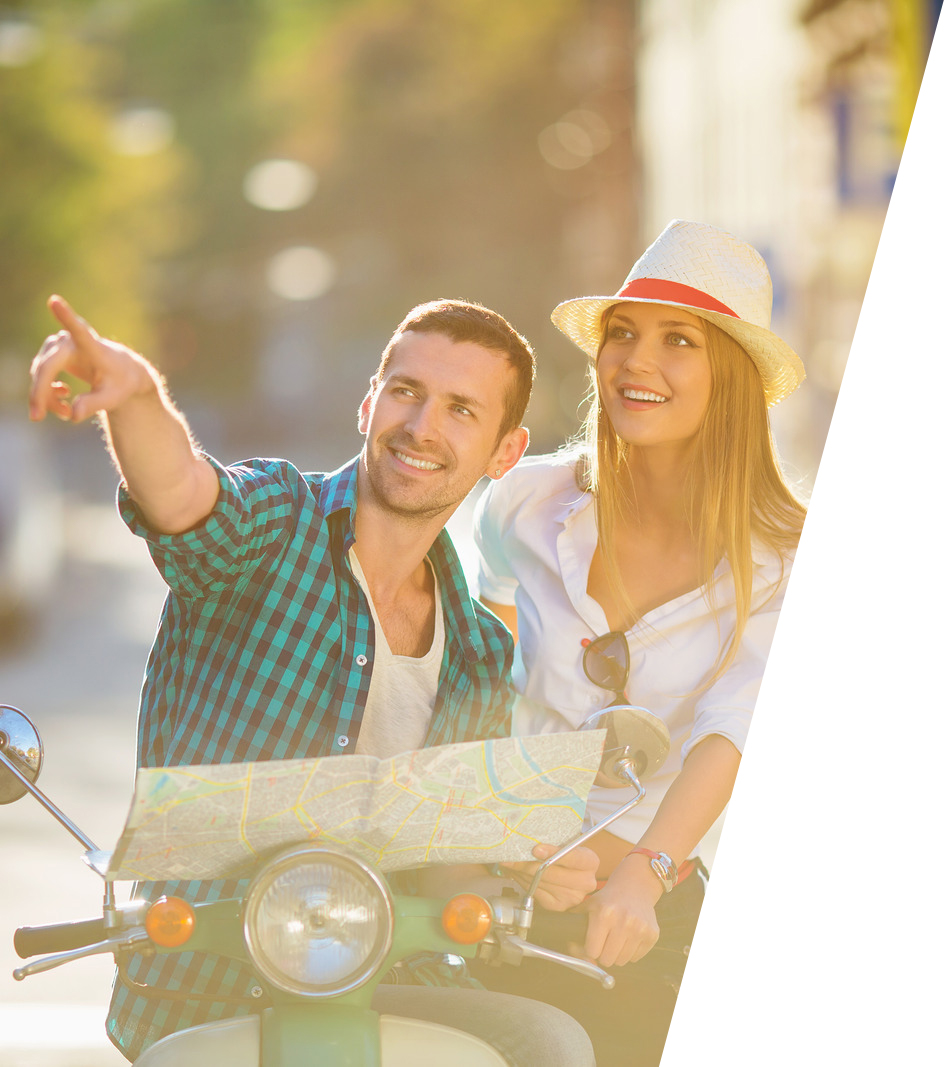
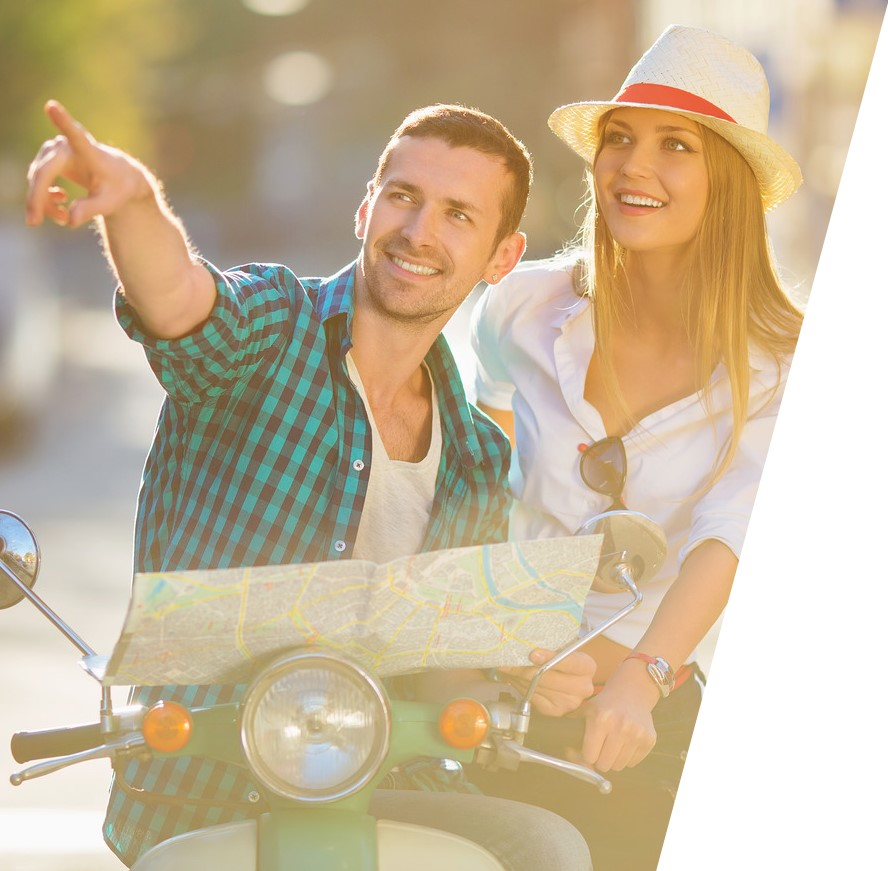
update design

diff --git a/pages/new-index4.vue b/pages/new-index4.vue
@@ -1,9 +1,9 @@
 <template>
-  <div class="min-h-screen w-full font-sans max-w-screen-2xl mx-auto">
+  <div class="min-h-screen w-full font-sans max-w-screen-3xl mx-auto">
     <div class="w-full">
       <div class="relative w-full">
         <img
-          class="h-auto w-2/3 object-cover ml-auto hidden md:block  max-h-screen"
+          class="h-auto w-2/3 object-cover ml-auto hidden md:block"
           src="~assets/img/pictures/HappyFacesSchräg.jpg"
         >
         <img
@@ -206,10 +206,10 @@
       </div>
     </div>
     <div class="w-full h-auto mt-4 relative">
-      <img src="~assets/img/pictures/StadttripPaarSchräg.jpg" class="object-cover w-7/12 max-h-screen">
+      <img src="~assets/img/pictures/StadttripPaarSchräg.jpg" class="object-contain w-1/2">
       <div class="w-2/3 flex flex-col md:p-6 z-10 absolute top-0 right-0 h-full">
         <img src="~assets/img/icons/Swoosh+text200.png" class="object-contain -ml-2">
-        <div class="ml-auto w-2/3 justify-around flex flex-col h-full">
+        <div class="ml-auto w-2/3 justify-between flex flex-col h-full">
           <p class="text-yellowDark text-sm md:text-3xl xl:text-5xl 2xl:text-6 font-bold flex-grow  mr-2 mt-4 md:m-0">Mit deinem neuen Geld <br>könntest du...</p>
           <p class="text-black text-sm md:text-3xl xl:text-5xl font-bold flex-grow text-center mr-2 mt-4 md:m-0">Romantischer Städtetrip<br>mit deinem Partner</p>
           <div class="flex-grow mr-4 md:mx-auto ">
